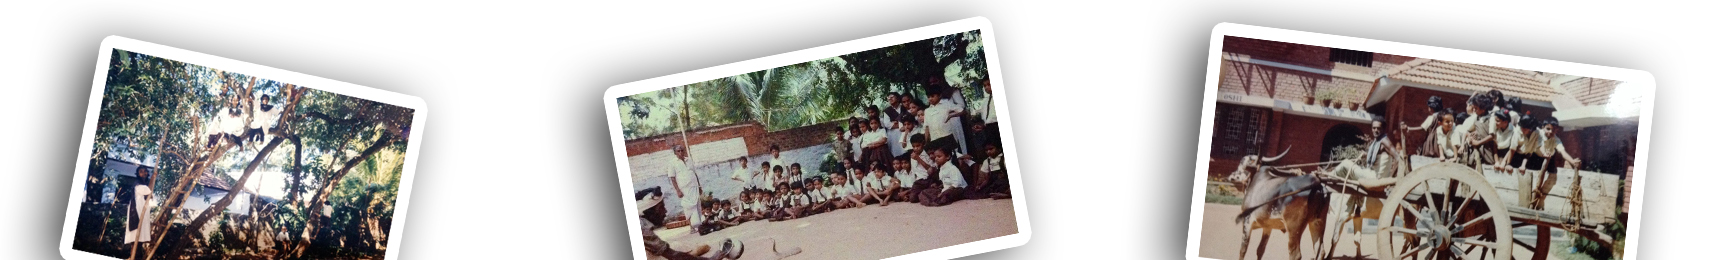
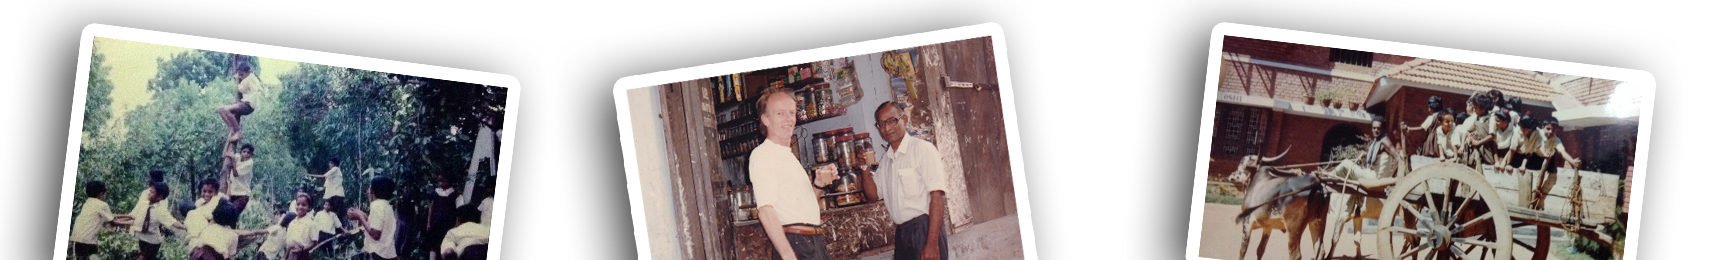
23decupdatepicsandcorrections

diff --git a/oshi.html b/oshi.html
@@ -32,7 +32,7 @@ layout: default
                   <div class="panel-heading">
                     <h3 class="panel-title">
                       <a data-toggle="collapse" data-parent="#flat-one" href="#collapse-flat-one">
-                        Complex methodology made easy:
+                        Complex methodology made easy
                       </a>
                     </h3>
                   </div>
@@ -46,7 +46,7 @@ layout: default
                   <div class="panel-heading">
                     <h3 class="panel-title">
                       <a class="collapsed" data-toggle="collapse" data-parent="#flat-one" href="#collapse-flat-two">
-                        Indigenous Assistance:
+                        Indigenous Assistance
                       </a>
                     </h3>
                   </div>
@@ -60,7 +60,7 @@ layout: default
                   <div class="panel-heading">
                     <h3 class="panel-title">
                       <a class="collapsed" data-toggle="collapse" data-parent="#flat-one" href="#collapse-flat-three">
-                        Customized Tools:
+                        Customized Tools
                       </a>
                     </h3>
                   </div>
@@ -75,7 +75,7 @@ layout: default
                   <div class="panel-heading">
                     <h3 class="panel-title">
                       <a class="collapsed" data-toggle="collapse" data-parent="#flat-one" href="#collapse-flat-four">
-                        Result Oriented Approach:
+                        Result Oriented Approach
                       </a>
                     </h3>
                   </div>
@@ -132,8 +132,8 @@ layout: default
         <div class="container">
 
               <div class="text-center">
-                  <h1 class="text-uppercase text-bold font-30">Considering OSHI for your child?</h1>
-                  <p class="black-text">OSHI is recognized as SPECIAL SCHOOL FOR THE DIFFERENTLY ABLED (HEARING IMPAIRMENT), by Commissioner for Welfare of the Differently Abled, Chennai, Government of Tamil Nadu.</p>
+                  <h1 class="text-bold font-30">Considering OSHI for your child?</h1>
+                  <p class="black-text">OSHI is recognized as SPECIAL SCHOOL FOR THE DIFFERENTLY ABLED (HEARING IMPAIRMENT),<br> by Commissioner for Welfare of the Differently Abled, Chennai, Government of Tamil Nadu.</p>
 
                   <a href="reach-us.html" class="btn btn-lg pink waves-effect waves-light">Reach us</a>
               </div>

diff --git a/reach-us.html b/reach-us.html
@@ -119,7 +119,7 @@ layout: default
                         <p>Disabled and left to the mercy of others, these hearing impaired children’s resolve to rise above their circumstance never waivers. Yet, living in a world of isolation, they become devoid of joy and happiness – sooner or later their spirits break.</p>
                         <p>Our management desires to offer top-notch services in highly subsidized price or even free of cost to hearing-impaired children so that no one is left out. However, at present, we are self-financed and are dependent on service charges from our beneficiaries to meet operational expenses.</p>
                         <p>We aim to establish a corpus fund so that we shall continue to offer our services in most affordable form without compromising on quality and to be able to pay a reasonable salary to well qualified and talented staff.</p>
-                        <p>We are also in need of funds to set up expansion plans and up-gradation of our facilities mentioned in wish list</p>
+                        <p>We are also in need of funds to set up expansion plans and up-gradation of our facilities mentioned in <a href="what-we-do.html#wishlist_connector">wish list</a></p>
                     </div>
                     <div role="tabpanel" class="tab-pane fade" id="tab-6">
                         <h2>Sanctuary of hope</h2>
@@ -155,8 +155,9 @@ layout: default
   <h2 class="center-align">Our Bank Account to receive local (Indian) contributions</h2>
   <div class="container">
     <div class="row">
-      <div class="col-md-8 col-md-offset-2">
-        <table class="table centered">
+      <div class="col-md-6 col-md-offset-3">
+        <center>
+        <table class="table striped">
           <tbody>
             <tr>
               <td>NAME OF THE ACCOUNT </td>
@@ -180,6 +181,7 @@ layout: default
             </tr>
           </tbody>
         </table>
+      </center>
       </div>
     </div>
     <p class="center-align">Please notify us your details and purpose of contribution if you transfer funds in electronic form.</p>

diff --git a/our-journey.html b/our-journey.html
@@ -103,7 +103,7 @@ layout: default
               <div class="entry-content">
                 <p>Moved by the divine inspiration to establish a school for the hearing impaired, Dr P. J. Christopher, obeyed the calling and took a giant leap of faith to start a school, while he was going through a phase of personal distress.</p>
                 <p>Dr P. J. Christopher had the opportunity of training & mentorship under subject matter experts and pioneers of deaf education in India and abroad. His extensive teaching and administrative experience in the field coupled with compassionate association with deaf people had given him a deeper understanding of the grassroots need of the hearing-impaired population and gaps found in the system of education for the deaf in India.</p>
-                <p>With limited resources, Christopher could not afford a building for the school; hence, The “Oral School for the Hearing Impaired” was born at the residence of Dr Christopher on 4th February 1983!</p>
+                <p>With limited resources, Christopher could not afford a building for the school; hence, The “Oral School for the Hearing Impaired” was born at the residence of Dr Christopher on 4th February 1983! <br><br></p>
               </div><!-- .entry-content -->
 
             </article><!-- /.post-wrapper -->
@@ -151,8 +151,10 @@ layout: default
       <div class="container">
         <div class="row text-center">
           <div class="col-12 counter-wrap">
-          <span class="count-description">We acknowledge with thanks, donors of our building facility</span>
-        </div>
+            <img src="assets/img/rabobank.png" alt="" style="height:150px;">
+            <span class="count-description">&nbsp; &nbsp;&nbsp; &nbsp; We acknowledge with thanks, donors of our building facility &nbsp; &nbsp;&nbsp; &nbsp;</span>
+            <img src="assets/img/terrelogo.png" alt="" style="height:150px;">
+          </div>
         </div>
 
 

diff --git a/participate.html b/participate.html
@@ -55,17 +55,17 @@ layout: default
 
     <div class="gallery-thumb">
       <ul class="slides">
-        <li data-thumb="assets/img/gallery/author-1.jpg">
-          <img src="assets/img/gallery/author-1.jpg" alt="image">
+        <li data-thumb="assets/img/gallery/part-1.jpg">
+          <img src="assets/img/gallery/part-1.jpg" alt="image">
         </li>
-        <li data-thumb="assets/img/gallery/author-2.jpg">
-          <img src="assets/img/gallery/author-2.jpg" alt="image">
+        <li data-thumb="assets/img/gallery/part-2.jpg">
+          <img src="assets/img/gallery/part-2.jpg" alt="image">
         </li>
-        <li data-thumb="assets/img/gallery/author-3.jpg">
-          <img src="assets/img/gallery/author-3.jpg" alt="image">
+        <li data-thumb="assets/img/gallery/part-3.jpg">
+          <img src="assets/img/gallery/part-3.jpg" alt="image">
         </li>
-        <li data-thumb="assets/img/gallery/author-4.jpg">
-          <img src="assets/img/gallery/author-4.jpg" alt="image">
+        <li data-thumb="assets/img/gallery/part-4.jpg">
+          <img src="assets/img/gallery/part-4.jpg" alt="image">
         </li>
       </ul>
     </div><!-- /.gallery-thumb -->

diff --git a/_layouts/home.html b/_layouts/home.html
@@ -148,7 +148,7 @@
                   <div class="row">
                     <div class="col-md-12">
                           <div class="footer-logo">
-                            <img src="assets/img/logo-white.png" alt="">
+                            <img src="assets/img/logo-white.png" style="height:  200px;" alt="">
                           </div>
 
                           <span class="copy-text">AN INSTITUTION FOR THE PERSONS WITH HEARING IMPAIRMENT – (Under section 51 (2) of the Rights of Persons with Disabilities Act 2016 -Reg. No.: 422/2019)<br>Ephphatha Institute for the Deaf is a charity Registered under section 10 of Tamil Nadu Societies Registration Act, 1975 (Reg. No.: 27/1988)</span>

diff --git a/_layouts/default.html b/_layouts/default.html
@@ -172,7 +172,7 @@
                   <div class="row">
                     <div class="col-md-12">
                           <div class="footer-logo">
-                            <img src="assets/img/logo-white.png" alt="">
+                            <img src="assets/img/logo-white.png" style="height:  200px;" alt="">
                           </div>
 
                           <!-- <span class="copy-text">Copyright &copy; 2016 <a href="#">Materialize</a> &nbsp; | &nbsp;  All Rights Reserved &nbsp; | &nbsp;  Designed By <a href="#">TrendyTheme</a></span> -->

diff --git a/shine.html b/shine.html
@@ -50,7 +50,7 @@ layout: default
                   <div class="panel-heading">
                     <h3 class="panel-title">
                       <a class="collapsed" data-toggle="collapse" data-parent="#flat-one" href="#collapse-flat-two">
-                        Interventions we cater to:
+                        Interventions we cater to
                       </a>
                     </h3>
                   </div>

diff --git a/what-we-do.html b/what-we-do.html
@@ -176,7 +176,7 @@ layout: default
 
     </div><!-- /.container -->
 
-    <div class="mocup-wrapper text-center">
+    <div id="wishlist_connector" class="mocup-wrapper text-center">
         <img src="assets/img/mockup/wat_we_do.jpg" alt="image">
     </div>
 </section>
